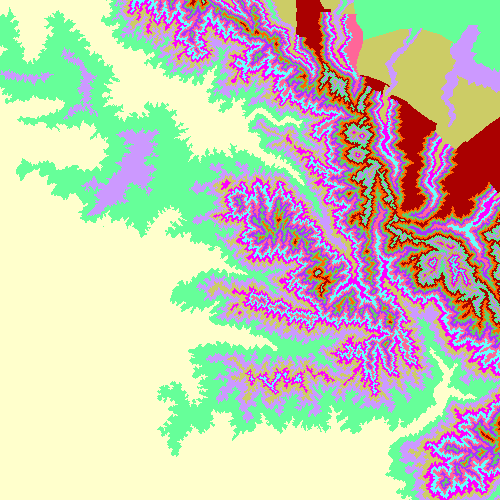
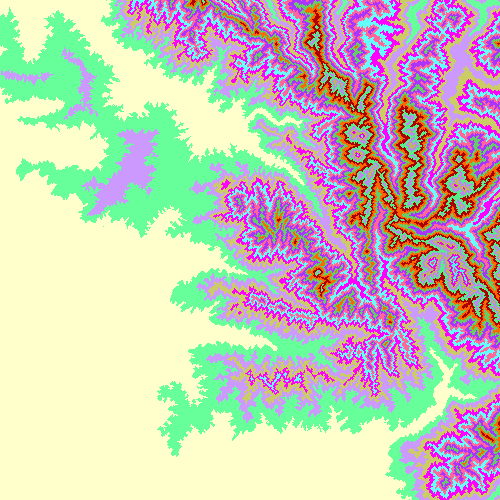
Add tile images

Changed region(s): [[0.54, 0.0, 1.0, 0.45]]

diff --git a/index.html b/index.html
@@ -145,7 +145,7 @@
     }
 
     const tileMap = [
-      ["xxxsea", "xxxsea", "xxxsea", "xxxsea", "xxxsea", "xxxsea", "xxxsea", "xxxsea", "p05n08", "p06n08", ""      , ""      , ""      , ""      , ],
+      ["xxxsea", "xxxsea", "xxxsea", "xxxsea", "xxxsea", "xxxsea", "xxxsea", "xxxsea", "p05n08", "p06n08", "p07n08", "p08n08", "p09n08", "p10n08", ],
       ["n03n07", "n02n07", "n01n07", "n00n07", "p01n07", "p02n07", "xxxsea", "p04n07", "p05n07", "p06n07", "p07n07", "p08n07", "p09n07", "p10n07", ],
       ["n03n06", "n02n06", "n01n06", "n00n06", "p01n06", "p02n06", "p03n06", "p04n06", "p05n06", "p06n06", "p07n06", "p08n06", "p09n06", "xxxsea", ],
       ["xxxsea", "n02n05", "n01n05", "n00n05", "p01n05", "p02n05", "p03n05", "p04n05", "p05n05", "p06n05", "p07n05", "p08n05", "p09n05", "xxxsea", ],
